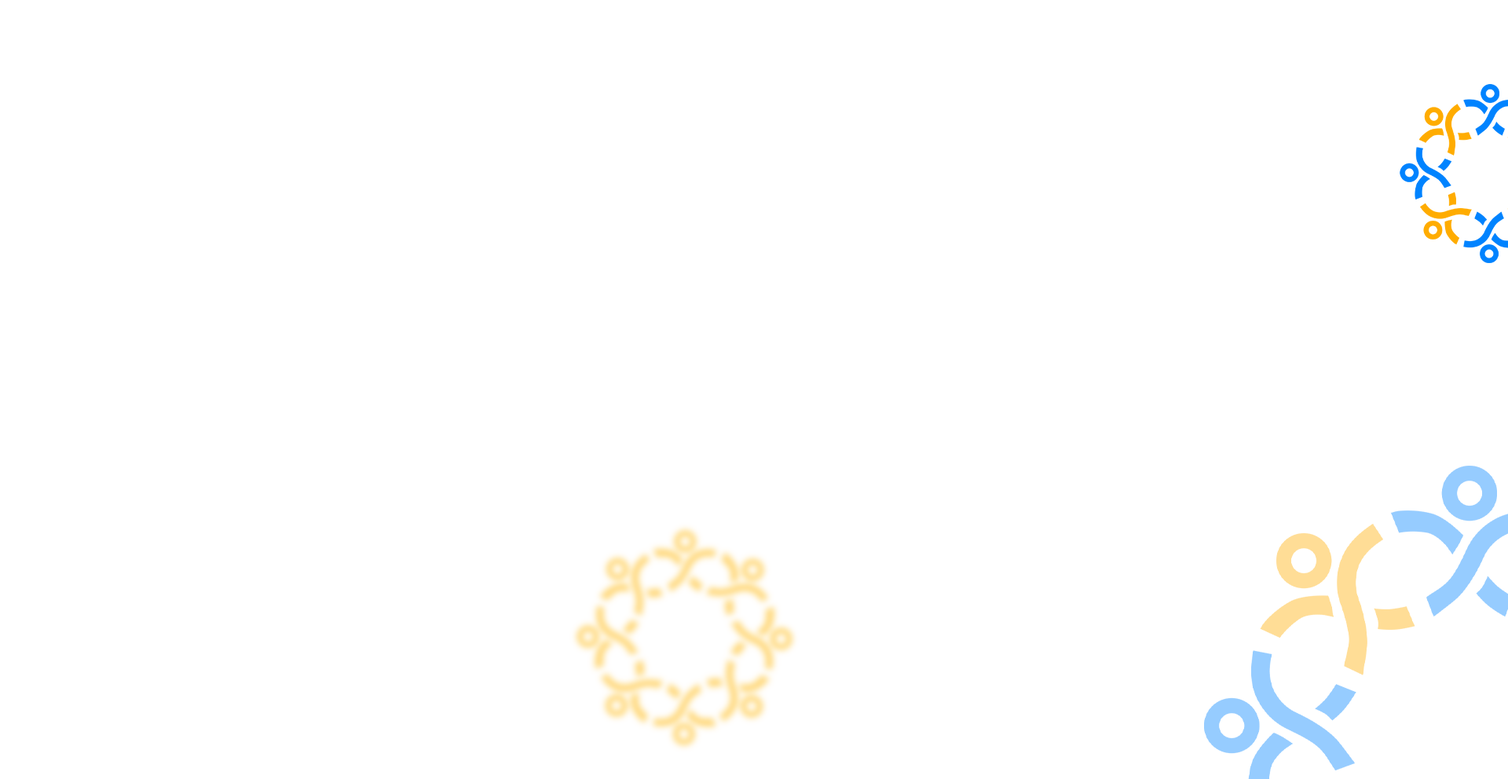
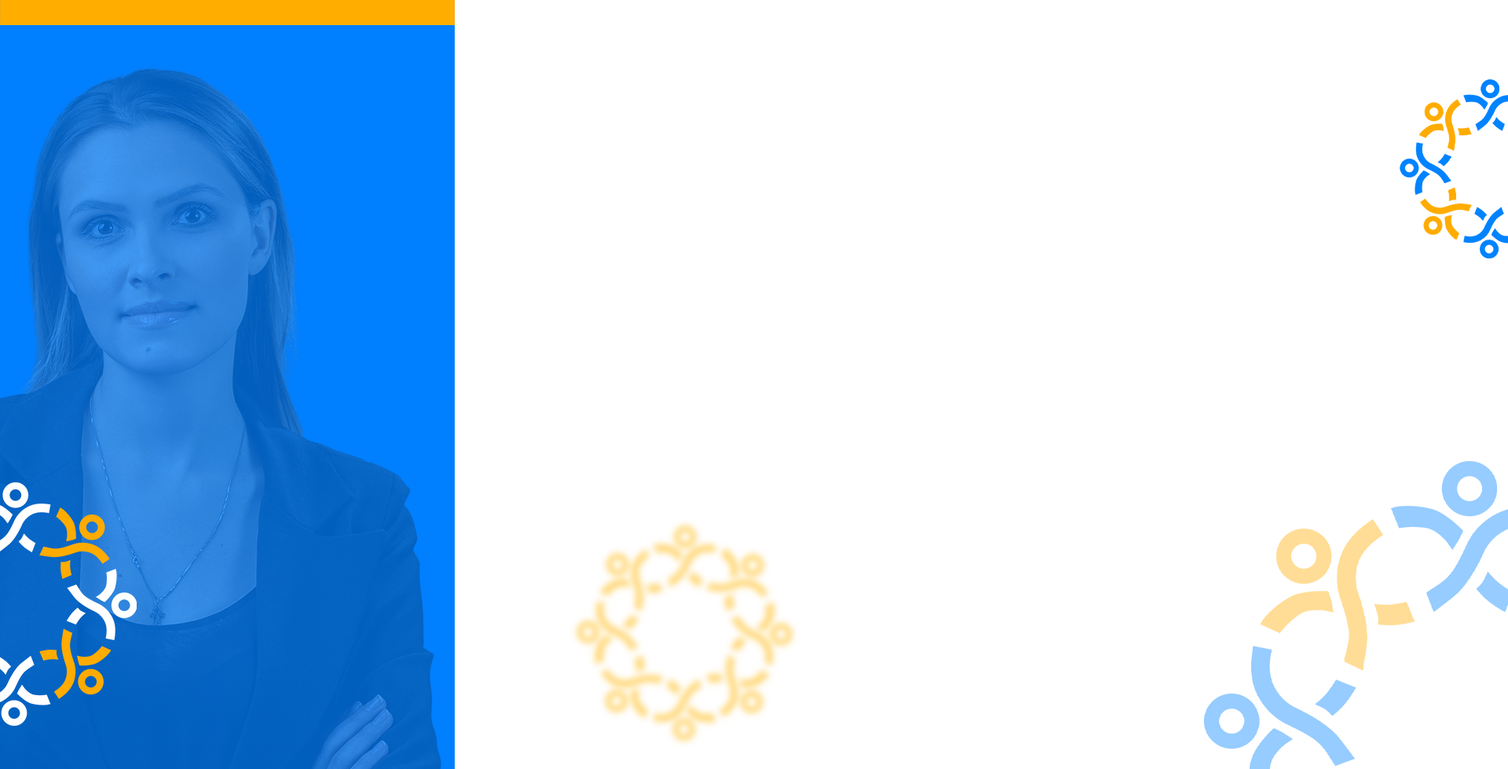
develop: create register section

diff --git a/styles/css/main.min.css b/styles/css/main.min.css
@@ -1,2 +1,2 @@
-@import url("https://fonts.googleapis.com/css2?family=Raleway:wght@400;500;700;900&display=swap");*,*::before,*::after{margin:0;padding:0;-webkit-box-sizing:inherit;box-sizing:inherit}html{-webkit-box-sizing:border-box;box-sizing:border-box;font-size:62.5%;overflow-x:hidden}@media only screen and (max-width: 1200px){html{font-size:50%}}@media only screen and (max-width: 1000px){html{font-size:37.5%}}body{font-family:'Raleway', sans-serif;font-weight:500}.btn{display:-webkit-box;display:-ms-flexbox;display:flex;-webkit-box-align:center;-ms-flex-align:center;align-items:center;-webkit-box-pack:center;-ms-flex-pack:center;justify-content:center;width:-webkit-fit-content;width:-moz-fit-content;width:fit-content;-ms-flex-item-align:center;align-self:center;text-decoration:none;padding:1rem 3rem;font-size:2.4rem;border-radius:10rem;color:white;font-weight:900;letter-spacing:2px;text-transform:uppercase}.btn-red{background-color:red}.btn-red:hover{background-color:#0085ff;color:white}.btn-orange{background-color:#ffb100}.btn-orange:hover{background-color:red;color:white}.h2{font-size:4rem;text-transform:uppercase;font-weight:900;letter-spacing:3px;width:-webkit-fit-content;width:-moz-fit-content;width:fit-content;text-align:center}.nav{-ms-flex-preferred-size:100%;flex-basis:100%;width:100%;padding:0 5rem;background-color:transparent;display:-webkit-box;display:-ms-flexbox;display:flex;-webkit-box-align:center;-ms-flex-align:center;align-items:center;-webkit-box-pack:justify;-ms-flex-pack:justify;justify-content:space-between;-webkit-box-shadow:0 0 10px rgba(0,0,0,0.2);box-shadow:0 0 10px rgba(0,0,0,0.2)}.nav__logo{padding:1rem}.nav__logo img{width:12rem}.nav__list{list-style:none;display:-webkit-box;display:-ms-flexbox;display:flex;-webkit-box-align:center;-ms-flex-align:center;align-items:center;-ms-flex-pack:distribute;justify-content:space-around;width:70%;margin:0}.nav__item{margin:0 1.8rem}.nav__item-link{color:#0085ff;text-decoration:none;font-size:1.6rem;font-weight:700;cursor:pointer;position:relative}.nav__item-link:hover{-webkit-transform:translateX(-0.5rem);transform:translateX(-0.5rem)}.nav__item-link::before{content:'';width:0;height:1px;background-color:#0085ff;position:absolute;top:120%;right:0;-webkit-transition:all 0.4s;transition:all 0.4s}.nav__item-link:hover::before{width:80%}.nav .icon-menu{display:none}@media only screen and (max-width: 1200px){.nav__list{width:75%}}@media only screen and (max-width: 1000px){.nav__list{width:80%}}@media only screen and (max-width: 800px){.nav{padding:0 2rem}.nav__logo img{width:15rem}.nav .icon-menu{display:inline-block;width:5rem;height:5rem;fill:#0085ff;z-index:9999}.nav__list{position:fixed;top:0;right:0;-webkit-transform:translateX(100%);transform:translateX(100%);height:100vh;width:30rem;max-width:100%;background:white;z-index:9998;-webkit-box-orient:vertical;-webkit-box-direction:normal;-ms-flex-direction:column;flex-direction:column;-webkit-box-align:start;-ms-flex-align:start;align-items:flex-start;-webkit-box-pack:start;-ms-flex-pack:start;justify-content:flex-start;padding-top:5rem;-webkit-transition:all 0.3s ease-in-out;transition:all 0.3s ease-in-out}.nav__list.visible{-webkit-transform:translateX(0);transform:translateX(0)}.nav__item{padding:3rem 2rem}.nav__item a{font-size:2.5rem}}header .carousel-item{height:90vh;position:relative;background-color:#000}header .carousel-item .carousel-caption{padding:10rem 0;top:0;bottom:0;display:-webkit-box;display:-ms-flexbox;display:flex;-webkit-box-orient:vertical;-webkit-box-direction:normal;-ms-flex-direction:column;flex-direction:column;-ms-flex-pack:distribute;justify-content:space-around;-webkit-box-align:center;-ms-flex-align:center;align-items:center}header .carousel-item .carousel-caption .h1{font-size:10rem;color:orange;z-index:9999;text-transform:uppercase;font-weight:900;letter-spacing:5px;margin-bottom:5rem;text-align:center}header .carousel-item .carousel-caption .h2{font-size:4rem;text-transform:uppercase;font-weight:900;letter-spacing:3px;position:relative;width:-webkit-fit-content;width:-moz-fit-content;width:fit-content}header .carousel-item .carousel-caption .h2::before{content:'';width:4rem;height:4rem;background-image:url(../../images/header-spark-left.png);background-size:contain;background-position:center;background-repeat:no-repeat;position:absolute;left:-7rem;top:0}header .carousel-item .carousel-caption .h2::after{content:'';width:4rem;height:4rem;background-image:url(../../images/header-spark-right.png);background-size:contain;background-position:center;background-repeat:no-repeat;position:absolute;right:-7rem;top:0}@media only screen and (max-width: 500px){header .carousel-item .carousel-caption{padding:3rem}header .carousel-item .carousel-caption .h1{font-size:7rem}header .carousel-item .carousel-caption .h2{font-size:5rem}}header .carousel-item .overlay-image{position:absolute;top:0;bottom:0;left:0;right:0;background-position:center;background-size:cover;opacity:0.4}header .carousel-item:nth-child(2) .overlay-image{background-position:bottom}.about{display:-webkit-box;display:-ms-flexbox;display:flex;-webkit-box-orient:vertical;-webkit-box-direction:normal;-ms-flex-direction:column;flex-direction:column;-ms-flex-pack:distribute;justify-content:space-around;-webkit-box-align:center;-ms-flex-align:center;align-items:center;padding:5rem;background-image:url(../../images/about-bg.png);background-size:cover;background-position:center;background-repeat:no-repeat}.about .h2{color:white}.about .label{font-size:2rem;text-transform:uppercase;font-weight:900;letter-spacing:2px;width:-webkit-fit-content;width:-moz-fit-content;width:fit-content;color:white;background-color:#0462ee;padding:0.5rem 1rem;text-align:center}.about .container-about{display:-webkit-box;display:-ms-flexbox;display:flex;-webkit-box-pack:justify;-ms-flex-pack:justify;justify-content:space-between;-webkit-box-align:center;-ms-flex-align:center;align-items:center;padding:2rem 0}.about .container-about .left{display:-webkit-box;display:-ms-flexbox;display:flex;-webkit-box-orient:vertical;-webkit-box-direction:normal;-ms-flex-direction:column;flex-direction:column;-webkit-box-pack:justify;-ms-flex-pack:justify;justify-content:space-between;-webkit-box-align:center;-ms-flex-align:center;align-items:center;width:50%}.about .container-about .left .p{font-size:1.8rem;color:white;text-align:center;padding:0 3rem;font-weight:700;margin-bottom:5rem}.about .container-about .right{width:50%}.about .container-about .right img{width:100%}@media only screen and (max-width: 500px){.about .h2{font-size:3rem}.about .label{font-size:1.5rem}.about .container-about{-webkit-box-orient:vertical;-webkit-box-direction:reverse;-ms-flex-direction:column-reverse;flex-direction:column-reverse}.about .container-about .left{width:100%}.about .container-about .right{width:100%;margin-bottom:3rem}}.eligibility{background-image:url(../../images/can-i-bg.png);background-size:105% auto;background-position:center;background-repeat:no-repeat;display:-webkit-box;display:-ms-flexbox;display:flex;-webkit-box-orient:vertical;-webkit-box-direction:normal;-ms-flex-direction:column;flex-direction:column;-webkit-box-align:center;-ms-flex-align:center;align-items:center;padding:5rem 0}.eligibility .h2{color:#0085ff}.eligibility .h2 span{color:#ffb100}.eligibility .requirements{display:-ms-grid;display:grid;-ms-grid-columns:(1fr)[4];grid-template-columns:repeat(4, 1fr);padding:1rem 3rem}.eligibility .requirements .requirement{padding:5rem;display:-webkit-box;display:-ms-flexbox;display:flex;-webkit-box-orient:vertical;-webkit-box-direction:normal;-ms-flex-direction:column;flex-direction:column;-webkit-box-pack:justify;-ms-flex-pack:justify;justify-content:space-between;-webkit-box-align:center;-ms-flex-align:center;align-items:center}.eligibility .requirements .requirement .h3{text-align:center;font-size:2.5rem;color:#0085ff;font-weight:700}.eligibility .requirements .requirement img{width:100%;margin-bottom:2rem}.eligibility .requirements .requirement:last-child img{width:145%}@media only screen and (max-width: 800px){.eligibility .requirements{-ms-grid-columns:(1fr)[2];grid-template-columns:repeat(2, 1fr);padding:5rem;grid-column-gap:5rem}.eligibility .requirements .requirement{padding:4rem}.eligibility .requirements .requirement .h3{font-size:3rem}}@media only screen and (max-width: 600px){.eligibility .requirements{-ms-grid-columns:1fr;grid-template-columns:1fr}.eligibility .requirements .requirement .h3{font-size:4rem}.eligibility .requirements .requirement img{width:70%;margin-bottom:2rem}.eligibility .requirements .requirement:last-child img{width:105%}}.benefits,.cities{background-image:url(../../images/benefits-bg.png);background-size:cover;display:-webkit-box;display:-ms-flexbox;display:flex;-webkit-box-orient:vertical;-webkit-box-direction:normal;-ms-flex-direction:column;flex-direction:column;-webkit-box-align:center;-ms-flex-align:center;align-items:center;-webkit-box-pack:justify;-ms-flex-pack:justify;justify-content:space-between;padding:3rem 0}.benefits .h2,.cities .h2{color:white;background-color:#0085ff;padding:0 2rem;margin:2rem 0}.benefits .owl-carousel .benefit,.benefits .owl-carousel .city,.cities .owl-carousel .benefit,.cities .owl-carousel .city{padding:5rem;display:-webkit-box;display:-ms-flexbox;display:flex;-webkit-box-orient:vertical;-webkit-box-direction:normal;-ms-flex-direction:column;flex-direction:column;-webkit-box-align:center;-ms-flex-align:center;align-items:center;-webkit-box-pack:justify;-ms-flex-pack:justify;justify-content:space-between}.benefits .owl-carousel .benefit img,.benefits .owl-carousel .city img,.cities .owl-carousel .benefit img,.cities .owl-carousel .city img{width:90%}.benefits .owl-carousel .benefit .h3,.benefits .owl-carousel .city .h3,.cities .owl-carousel .benefit .h3,.cities .owl-carousel .city .h3{margin-top:2rem;font-size:2.5rem;color:white;font-weight:700;text-align:center;background-color:#0085ff;padding:0 2rem}@media only screen and (max-width: 600px){.benefits .owl-carousel .benefit img,.benefits .owl-carousel .city img,.cities .owl-carousel .benefit img,.cities .owl-carousel .city img{width:65%}.benefits .owl-carousel .benefit .h3,.benefits .owl-carousel .city .h3,.cities .owl-carousel .benefit .h3,.cities .owl-carousel .city .h3{font-size:3rem}}.whyus{background-image:url(../../images/whyus-bg.png);background-size:cover;background-repeat:no-repeat;display:-webkit-box;display:-ms-flexbox;display:flex;-webkit-box-orient:vertical;-webkit-box-direction:normal;-ms-flex-direction:column;flex-direction:column;-webkit-box-align:center;-ms-flex-align:center;align-items:center;padding-top:5rem}.whyus .h2{color:#ffb100;margin-bottom:5rem}.whyus .reasons{display:-ms-grid;display:grid;-ms-grid-columns:(1fr)[2];grid-template-columns:repeat(2, 1fr);padding:1rem 3rem;grid-gap:5rem}.whyus .reasons .reason{display:-webkit-box;display:-ms-flexbox;display:flex;-webkit-box-orient:vertical;-webkit-box-direction:normal;-ms-flex-direction:column;flex-direction:column;-webkit-box-pack:justify;-ms-flex-pack:justify;justify-content:space-between;-webkit-box-align:center;-ms-flex-align:center;align-items:center;padding:5rem}.whyus .reasons .reason .h3{text-align:center;font-size:2.5rem;color:#ffb100;font-weight:700;text-transform:uppercase}.whyus .reasons .reason img{width:40%;margin-bottom:2rem}.whyus .reasons .reason .p{color:white;font-size:1.6rem;text-align:center}@media only screen and (max-width: 800px){.whyus .reasons{-ms-grid-columns:1fr;grid-template-columns:1fr;grid-row-gap:2rem}.whyus .reasons .reason .h3{font-size:3rem}.whyus .reasons .reason img{width:60%}.whyus .reasons .reason .p{font-size:2rem}}.consultation{height:100vh;background-image:url(../../images/consultation-bg.png);background-size:cover;display:-webkit-box;display:-ms-flexbox;display:flex}.consultation img.big{height:100%;width:auto}.consultation img.small{display:none}.consultation .content{display:-webkit-box;display:-ms-flexbox;display:flex;-webkit-box-orient:vertical;-webkit-box-direction:normal;-ms-flex-direction:column;flex-direction:column;-ms-flex-pack:distribute;justify-content:space-around;-webkit-box-align:center;-ms-flex-align:center;align-items:center;padding:3rem}.consultation .content .h2{color:#0085ff}.consultation .content .h2.big{font-size:6rem;color:#ffb100}.consultation .content .name{text-align:center;display:-webkit-box;display:-ms-flexbox;display:flex;-webkit-box-orient:vertical;-webkit-box-direction:normal;-ms-flex-direction:column;flex-direction:column;-webkit-box-align:center;-ms-flex-align:center;align-items:center}.consultation .content .name .h3{font-size:2.5rem;color:#0085ff;font-weight:900;text-transform:uppercase;text-align:center}.consultation .content .p{font-size:2rem;font-weight:700;text-align:center;padding:5rem}.consultation .content .btn:hover{background-color:#0085ff}@media only screen and (max-width: 850px){.consultation{height:-webkit-fit-content;height:-moz-fit-content;height:fit-content;padding:3rem 0}.consultation img.big{display:none}.consultation img.small{width:60%;border-radius:50%;display:inline-block;margin:5rem 0}.consultation .p{margin:2rem 0}}@media only screen and (max-width: 500px){.consultation .h2{font-size:3rem}}.cities{background-image:url(../../images/cities-bg.png)}.cities .owl-carousel .city{padding:5rem;display:-webkit-box;display:-ms-flexbox;display:flex;-webkit-box-orient:vertical;-webkit-box-direction:normal;-ms-flex-direction:column;flex-direction:column;-webkit-box-align:center;-ms-flex-align:center;align-items:center;-webkit-box-pack:justify;-ms-flex-pack:justify;justify-content:space-between}.cities .owl-carousel .city img{width:100%}.cities .owl-carousel .city .h3{margin-top:1rem;font-size:3rem;font-weight:900;padding:0.5rem 2rem;color:#0085ff;background-color:white;text-transform:uppercase;letter-spacing:1px}@media only screen and (max-width: 600px){.cities .owl-carousel .city .h3{font-size:3rem}}
+@import url("https://fonts.googleapis.com/css2?family=Raleway:wght@400;500;700;900&display=swap");*,*::before,*::after{margin:0;padding:0;-webkit-box-sizing:inherit;box-sizing:inherit}html{-webkit-box-sizing:border-box;box-sizing:border-box;font-size:62.5%;overflow-x:hidden}@media only screen and (max-width: 1200px){html{font-size:50%}}@media only screen and (max-width: 1000px){html{font-size:37.5%}}body{font-family:'Raleway', sans-serif;font-weight:500}.btn{display:-webkit-box;display:-ms-flexbox;display:flex;-webkit-box-align:center;-ms-flex-align:center;align-items:center;-webkit-box-pack:center;-ms-flex-pack:center;justify-content:center;width:-webkit-fit-content;width:-moz-fit-content;width:fit-content;-ms-flex-item-align:center;align-self:center;text-decoration:none;padding:1rem 3rem;font-size:2.4rem;border-radius:10rem;color:white;font-weight:900;letter-spacing:2px;text-transform:uppercase}.btn-red{background-color:red}.btn-red:hover{background-color:#0085ff;color:white}.btn-orange{background-color:#ffb100}.btn-orange:hover{background-color:red;color:white}.h2{font-size:4rem;text-transform:uppercase;font-weight:900;letter-spacing:3px;width:-webkit-fit-content;width:-moz-fit-content;width:fit-content;text-align:center}.nav{-ms-flex-preferred-size:100%;flex-basis:100%;width:100%;padding:0 5rem;background-color:transparent;display:-webkit-box;display:-ms-flexbox;display:flex;-webkit-box-align:center;-ms-flex-align:center;align-items:center;-webkit-box-pack:justify;-ms-flex-pack:justify;justify-content:space-between;-webkit-box-shadow:0 0 10px rgba(0,0,0,0.2);box-shadow:0 0 10px rgba(0,0,0,0.2)}.nav__logo{padding:1rem}.nav__logo img{width:12rem}.nav__list{list-style:none;display:-webkit-box;display:-ms-flexbox;display:flex;-webkit-box-align:center;-ms-flex-align:center;align-items:center;-ms-flex-pack:distribute;justify-content:space-around;width:70%;margin:0}.nav__item{margin:0 1.8rem}.nav__item-link{color:#0085ff;text-decoration:none;font-size:1.6rem;font-weight:700;cursor:pointer;position:relative}.nav__item-link:hover{-webkit-transform:translateX(-0.5rem);transform:translateX(-0.5rem)}.nav__item-link::before{content:'';width:0;height:1px;background-color:#0085ff;position:absolute;top:120%;right:0;-webkit-transition:all 0.4s;transition:all 0.4s}.nav__item-link:hover::before{width:80%}.nav .icon-menu{display:none}@media only screen and (max-width: 1200px){.nav__list{width:75%}}@media only screen and (max-width: 1000px){.nav__list{width:80%}}@media only screen and (max-width: 800px){.nav{padding:0 2rem}.nav__logo img{width:15rem}.nav .icon-menu{display:inline-block;width:5rem;height:5rem;fill:#0085ff;z-index:9999}.nav__list{position:fixed;top:0;right:0;-webkit-transform:translateX(100%);transform:translateX(100%);height:100vh;width:30rem;max-width:100%;background:white;z-index:9998;-webkit-box-orient:vertical;-webkit-box-direction:normal;-ms-flex-direction:column;flex-direction:column;-webkit-box-align:start;-ms-flex-align:start;align-items:flex-start;-webkit-box-pack:start;-ms-flex-pack:start;justify-content:flex-start;padding-top:5rem;-webkit-transition:all 0.3s ease-in-out;transition:all 0.3s ease-in-out}.nav__list.visible{-webkit-transform:translateX(0);transform:translateX(0)}.nav__item{padding:3rem 2rem}.nav__item a{font-size:2.5rem}}header .carousel-item{height:90vh;position:relative;background-color:#000}header .carousel-item .carousel-caption{padding:10rem 0;top:0;bottom:0;display:-webkit-box;display:-ms-flexbox;display:flex;-webkit-box-orient:vertical;-webkit-box-direction:normal;-ms-flex-direction:column;flex-direction:column;-ms-flex-pack:distribute;justify-content:space-around;-webkit-box-align:center;-ms-flex-align:center;align-items:center}header .carousel-item .carousel-caption .h1{font-size:10rem;color:orange;z-index:9999;text-transform:uppercase;font-weight:900;letter-spacing:5px;margin-bottom:5rem;text-align:center}header .carousel-item .carousel-caption .h2{font-size:4rem;text-transform:uppercase;font-weight:900;letter-spacing:3px;position:relative;width:-webkit-fit-content;width:-moz-fit-content;width:fit-content}header .carousel-item .carousel-caption .h2::before{content:'';width:4rem;height:4rem;background-image:url(../../images/header-spark-left.png);background-size:contain;background-position:center;background-repeat:no-repeat;position:absolute;left:-7rem;top:0}header .carousel-item .carousel-caption .h2::after{content:'';width:4rem;height:4rem;background-image:url(../../images/header-spark-right.png);background-size:contain;background-position:center;background-repeat:no-repeat;position:absolute;right:-7rem;top:0}@media only screen and (max-width: 500px){header .carousel-item .carousel-caption{padding:3rem}header .carousel-item .carousel-caption .h1{font-size:7rem}header .carousel-item .carousel-caption .h2{font-size:5rem}}header .carousel-item .overlay-image{position:absolute;top:0;bottom:0;left:0;right:0;background-position:center;background-size:cover;opacity:0.4}header .carousel-item:nth-child(2) .overlay-image{background-position:bottom}.about{display:-webkit-box;display:-ms-flexbox;display:flex;-webkit-box-orient:vertical;-webkit-box-direction:normal;-ms-flex-direction:column;flex-direction:column;-ms-flex-pack:distribute;justify-content:space-around;-webkit-box-align:center;-ms-flex-align:center;align-items:center;padding:5rem;background-image:url(../../images/about-bg.png);background-size:cover;background-position:center;background-repeat:no-repeat}.about .h2{color:white}.about .label{font-size:2rem;text-transform:uppercase;font-weight:900;letter-spacing:2px;width:-webkit-fit-content;width:-moz-fit-content;width:fit-content;color:white;background-color:#0462ee;padding:0.5rem 1rem;text-align:center}.about .container-about{display:-webkit-box;display:-ms-flexbox;display:flex;-webkit-box-pack:justify;-ms-flex-pack:justify;justify-content:space-between;-webkit-box-align:center;-ms-flex-align:center;align-items:center;padding:2rem 0}.about .container-about .left{display:-webkit-box;display:-ms-flexbox;display:flex;-webkit-box-orient:vertical;-webkit-box-direction:normal;-ms-flex-direction:column;flex-direction:column;-webkit-box-pack:justify;-ms-flex-pack:justify;justify-content:space-between;-webkit-box-align:center;-ms-flex-align:center;align-items:center;width:50%}.about .container-about .left .p{font-size:1.8rem;color:white;text-align:center;padding:0 3rem;font-weight:700;margin-bottom:5rem}.about .container-about .right{width:50%}.about .container-about .right img{width:100%}@media only screen and (max-width: 500px){.about .h2{font-size:3rem}.about .label{font-size:1.5rem}.about .container-about{-webkit-box-orient:vertical;-webkit-box-direction:reverse;-ms-flex-direction:column-reverse;flex-direction:column-reverse}.about .container-about .left{width:100%}.about .container-about .right{width:100%;margin-bottom:3rem}}.eligibility{background-image:url(../../images/can-i-bg.png);background-size:105% auto;background-position:center;background-repeat:no-repeat;display:-webkit-box;display:-ms-flexbox;display:flex;-webkit-box-orient:vertical;-webkit-box-direction:normal;-ms-flex-direction:column;flex-direction:column;-webkit-box-align:center;-ms-flex-align:center;align-items:center;padding:5rem 0}.eligibility .h2{color:#0085ff}.eligibility .h2 span{color:#ffb100}.eligibility .requirements{display:-ms-grid;display:grid;-ms-grid-columns:(1fr)[4];grid-template-columns:repeat(4, 1fr);padding:1rem 3rem}.eligibility .requirements .requirement{padding:5rem;display:-webkit-box;display:-ms-flexbox;display:flex;-webkit-box-orient:vertical;-webkit-box-direction:normal;-ms-flex-direction:column;flex-direction:column;-webkit-box-pack:justify;-ms-flex-pack:justify;justify-content:space-between;-webkit-box-align:center;-ms-flex-align:center;align-items:center}.eligibility .requirements .requirement .h3{text-align:center;font-size:2.5rem;color:#0085ff;font-weight:700}.eligibility .requirements .requirement img{width:100%;margin-bottom:2rem}.eligibility .requirements .requirement:last-child img{width:145%}@media only screen and (max-width: 800px){.eligibility .requirements{-ms-grid-columns:(1fr)[2];grid-template-columns:repeat(2, 1fr);padding:5rem;grid-column-gap:5rem}.eligibility .requirements .requirement{padding:4rem}.eligibility .requirements .requirement .h3{font-size:3rem}}@media only screen and (max-width: 600px){.eligibility .requirements{-ms-grid-columns:1fr;grid-template-columns:1fr}.eligibility .requirements .requirement .h3{font-size:4rem}.eligibility .requirements .requirement img{width:70%;margin-bottom:2rem}.eligibility .requirements .requirement:last-child img{width:105%}}.benefits,.cities{background-image:url(../../images/benefits-bg.png);background-size:cover;display:-webkit-box;display:-ms-flexbox;display:flex;-webkit-box-orient:vertical;-webkit-box-direction:normal;-ms-flex-direction:column;flex-direction:column;-webkit-box-align:center;-ms-flex-align:center;align-items:center;-webkit-box-pack:justify;-ms-flex-pack:justify;justify-content:space-between;padding:3rem 0}.benefits .h2,.cities .h2{color:white;background-color:#0085ff;padding:0 2rem;margin:2rem 0}.benefits .owl-carousel .benefit,.benefits .owl-carousel .city,.cities .owl-carousel .benefit,.cities .owl-carousel .city{padding:5rem;display:-webkit-box;display:-ms-flexbox;display:flex;-webkit-box-orient:vertical;-webkit-box-direction:normal;-ms-flex-direction:column;flex-direction:column;-webkit-box-align:center;-ms-flex-align:center;align-items:center;-webkit-box-pack:justify;-ms-flex-pack:justify;justify-content:space-between}.benefits .owl-carousel .benefit img,.benefits .owl-carousel .city img,.cities .owl-carousel .benefit img,.cities .owl-carousel .city img{width:90%}.benefits .owl-carousel .benefit .h3,.benefits .owl-carousel .city .h3,.cities .owl-carousel .benefit .h3,.cities .owl-carousel .city .h3{margin-top:2rem;font-size:2.5rem;color:white;font-weight:700;text-align:center;background-color:#0085ff;padding:0 2rem}@media only screen and (max-width: 600px){.benefits .owl-carousel .benefit img,.benefits .owl-carousel .city img,.cities .owl-carousel .benefit img,.cities .owl-carousel .city img{width:65%}.benefits .owl-carousel .benefit .h3,.benefits .owl-carousel .city .h3,.cities .owl-carousel .benefit .h3,.cities .owl-carousel .city .h3{font-size:3rem}}.whyus{background-image:url(../../images/whyus-bg.png);background-size:cover;background-repeat:no-repeat;display:-webkit-box;display:-ms-flexbox;display:flex;-webkit-box-orient:vertical;-webkit-box-direction:normal;-ms-flex-direction:column;flex-direction:column;-webkit-box-align:center;-ms-flex-align:center;align-items:center;padding-top:5rem}.whyus .h2{color:#ffb100;margin-bottom:5rem}.whyus .reasons{display:-ms-grid;display:grid;-ms-grid-columns:(1fr)[2];grid-template-columns:repeat(2, 1fr);padding:1rem 3rem;grid-gap:5rem}.whyus .reasons .reason{display:-webkit-box;display:-ms-flexbox;display:flex;-webkit-box-orient:vertical;-webkit-box-direction:normal;-ms-flex-direction:column;flex-direction:column;-webkit-box-pack:justify;-ms-flex-pack:justify;justify-content:space-between;-webkit-box-align:center;-ms-flex-align:center;align-items:center;padding:5rem}.whyus .reasons .reason .h3{text-align:center;font-size:2.5rem;color:#ffb100;font-weight:700;text-transform:uppercase}.whyus .reasons .reason img{width:40%;margin-bottom:2rem}.whyus .reasons .reason .p{color:white;font-size:1.6rem;text-align:center}@media only screen and (max-width: 800px){.whyus .reasons{-ms-grid-columns:1fr;grid-template-columns:1fr;grid-row-gap:2rem}.whyus .reasons .reason .h3{font-size:3rem}.whyus .reasons .reason img{width:60%}.whyus .reasons .reason .p{font-size:2rem}}.consultation{min-height:80rem;max-height:100vh;width:100%;background-image:url(../../images/consultation-bg.png);background-size:cover;display:-webkit-box;display:-ms-flexbox;display:flex;position:relative;overflow:hidden;padding-left:50rem}.consultation img.big{width:25%;position:absolute;bottom:-0.5rem;left:20rem}.consultation img.small{display:none}.consultation .content{display:-webkit-box;display:-ms-flexbox;display:flex;-webkit-box-orient:vertical;-webkit-box-direction:normal;-ms-flex-direction:column;flex-direction:column;-ms-flex-pack:distribute;justify-content:space-around;-webkit-box-align:center;-ms-flex-align:center;align-items:center;padding:3rem}.consultation .content .h2{color:#0085ff}.consultation .content .h2.big{font-size:6rem;color:#ffb100}.consultation .content .name{text-align:center;display:-webkit-box;display:-ms-flexbox;display:flex;-webkit-box-orient:vertical;-webkit-box-direction:normal;-ms-flex-direction:column;flex-direction:column;-webkit-box-align:center;-ms-flex-align:center;align-items:center}.consultation .content .name .h3{font-size:2.5rem;color:#0085ff;font-weight:900;text-transform:uppercase;text-align:center}.consultation .content .p{font-size:2rem;font-weight:700;text-align:center;padding:5rem 20rem}.consultation .content .btn:hover{background-color:#0085ff}@media only screen and (max-width: 700px){.consultation{background-image:url(../../images/consultation-bgsm.png);padding:3rem 0}.consultation img.big{display:none}.consultation img.small{width:60%;border-radius:50%;display:inline-block;margin:5rem 0}.consultation .p{margin:2rem 0;padding:5rem !important}}@media only screen and (max-width: 500px){.consultation .h2{font-size:3rem}}.cities{background-image:url(../../images/cities-bg.png)}.cities .owl-carousel .city{padding:5rem;display:-webkit-box;display:-ms-flexbox;display:flex;-webkit-box-orient:vertical;-webkit-box-direction:normal;-ms-flex-direction:column;flex-direction:column;-webkit-box-align:center;-ms-flex-align:center;align-items:center;-webkit-box-pack:justify;-ms-flex-pack:justify;justify-content:space-between}.cities .owl-carousel .city img{width:100%}.cities .owl-carousel .city .h3{margin-top:1rem;font-size:3rem;font-weight:900;padding:0.5rem 2rem;color:#0085ff;background-color:white;text-transform:uppercase;letter-spacing:1px}@media only screen and (max-width: 600px){.cities .owl-carousel .city .h3{font-size:3rem}}.register{background-image:url(../../images/register-bg.png);background-size:cover;background-position:top;padding:20rem;padding-bottom:10rem;display:-webkit-box;display:-ms-flexbox;display:flex;-webkit-box-orient:vertical;-webkit-box-direction:normal;-ms-flex-direction:column;flex-direction:column;-webkit-box-align:center;-ms-flex-align:center;align-items:center;-webkit-box-pack:justify;-ms-flex-pack:justify;justify-content:space-between}.register .h2{color:white}.register .h2.main{background-color:#ffb100;padding:0.5rem 5rem}.register .h2.sub{text-transform:capitalize;margin:5rem}@media only screen and (max-width: 600px){.register{padding:25rem 10rem 8rem 10rem}}
 /*# sourceMappingURL=main.min.css.map */

diff --git a/styles/scss/_sections.scss b/styles/scss/_sections.scss
@@ -286,14 +286,21 @@
 }
 
 .consultation {
-	height: 100vh;
+	min-height: 80rem;
+	max-height: 100vh;
+	width: 100%;
 	background-image: url(../../images/consultation-bg.png);
 	background-size: cover;
 	display: flex;
+	position: relative;
+	overflow: hidden;
+	padding-left: 50rem;
 
 	img.big {
-		height: 100%;
-		width: auto;
+		width: 25%;
+		position: absolute;
+		bottom: -0.5rem;
+		left: 20rem;
 	}
 
 	img.small {
@@ -335,7 +342,7 @@
 			font-size: 2rem;
 			font-weight: 700;
 			text-align: center;
-			padding: 5rem;
+			padding: 5rem 20rem;
 		}
 
 		.btn:hover {
@@ -343,8 +350,8 @@
 		}
 	}
 
-	@media only screen and (max-width: 850px) {
-		height: fit-content;
+	@media only screen and (max-width: 700px) {
+		background-image: url(../../images/consultation-bgsm.png);
 		padding: 3rem 0;
 
 		img.big {
@@ -360,6 +367,7 @@
 
 		.p {
 			margin: 2rem 0;
+			padding: 5rem !important;
 		}
 	}
 
@@ -372,7 +380,6 @@
 
 .cities {
 	background-image: url(../../images/cities-bg.png);
-
 
 	.owl-carousel {
 		.city {
@@ -403,5 +410,35 @@
 				}
 			}
 		}
+	}
+}
+
+.register {
+	background-image: url(../../images/register-bg.png);
+	background-size: cover;
+	background-position: top;
+	padding: 20rem;
+	padding-bottom: 10rem;
+	display: flex;
+	flex-direction: column;
+	align-items: center;
+	justify-content: space-between;
+
+	.h2 {
+		color: white;
+
+		&.main {
+			background-color: #ffb100;
+			padding: 0.5rem 5rem;
+		}
+
+		&.sub {
+			text-transform: capitalize;
+			margin: 5rem;
+		}
+	}
+
+	@media only screen and (max-width: 600px) {
+		padding: 25rem 10rem 8rem 10rem;
 	}
 }

diff --git a/index.html b/index.html
@@ -52,7 +52,7 @@
         <a class="nav__item-link" href="#consultation">Consultation</a>
       </li>
       <li class="nav__item">
-        <a class="nav__item-link" href="#faq">FAQ</a>
+        <a class="nav__item-link" href="#cities">Travel</a>
       </li>
       <li class="nav__item">
         <a class="nav__item-link" href="#contacts">Contacts</a>
@@ -233,7 +233,7 @@
         class="btn btn-orange">Book a slot</a>
     </div>
   </section>
-  <section class="cities">
+  <section class="cities" id="cities">
     <h2 class="h2">Where will you travel after camp?</h2>
     <div class="owl-carousel owl-theme">
       <div class="city">
@@ -261,6 +261,11 @@
         <h3 class="h3">Miami</h3>
       </div>
     </div>
+  </section>
+  <section class="register">
+    <h2 class="h2 main">If you can dream it, you can do it!</h2>
+    <h2 class="h2 sub">Make this summer unforgettable with Global Friends</h2>
+    <a href="#" class="btn btn-orange">Register</a>
   </section>
 </body>
 
